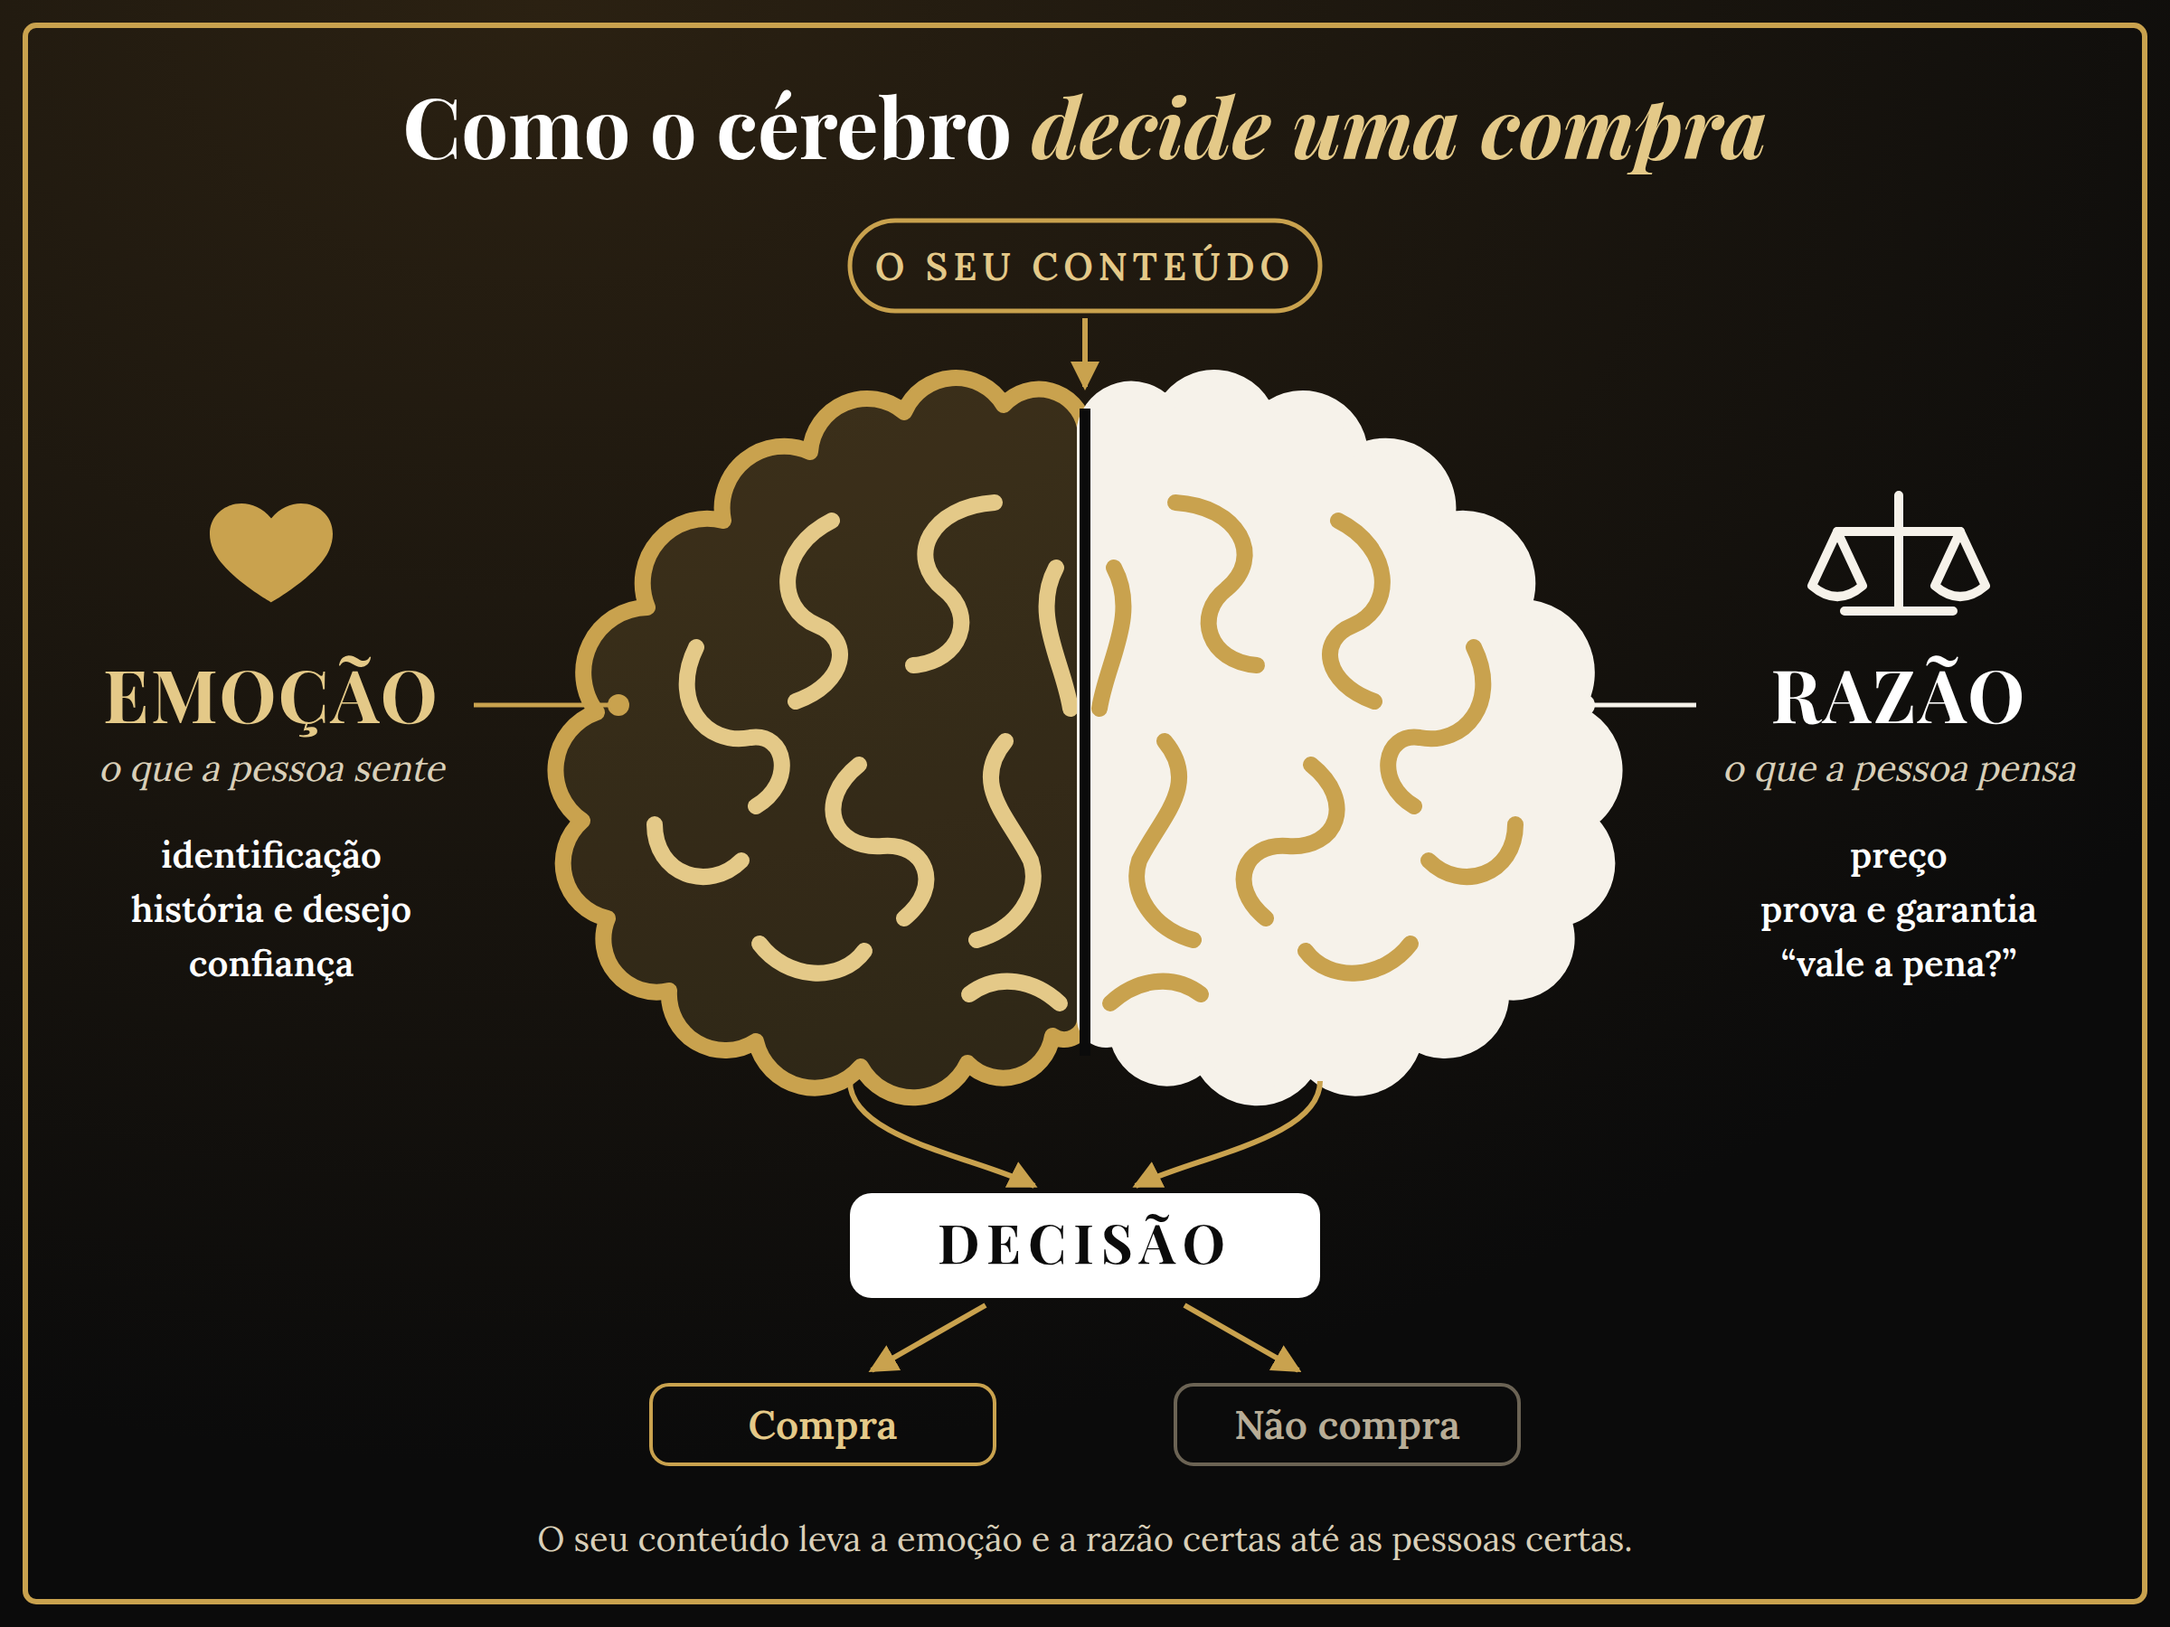
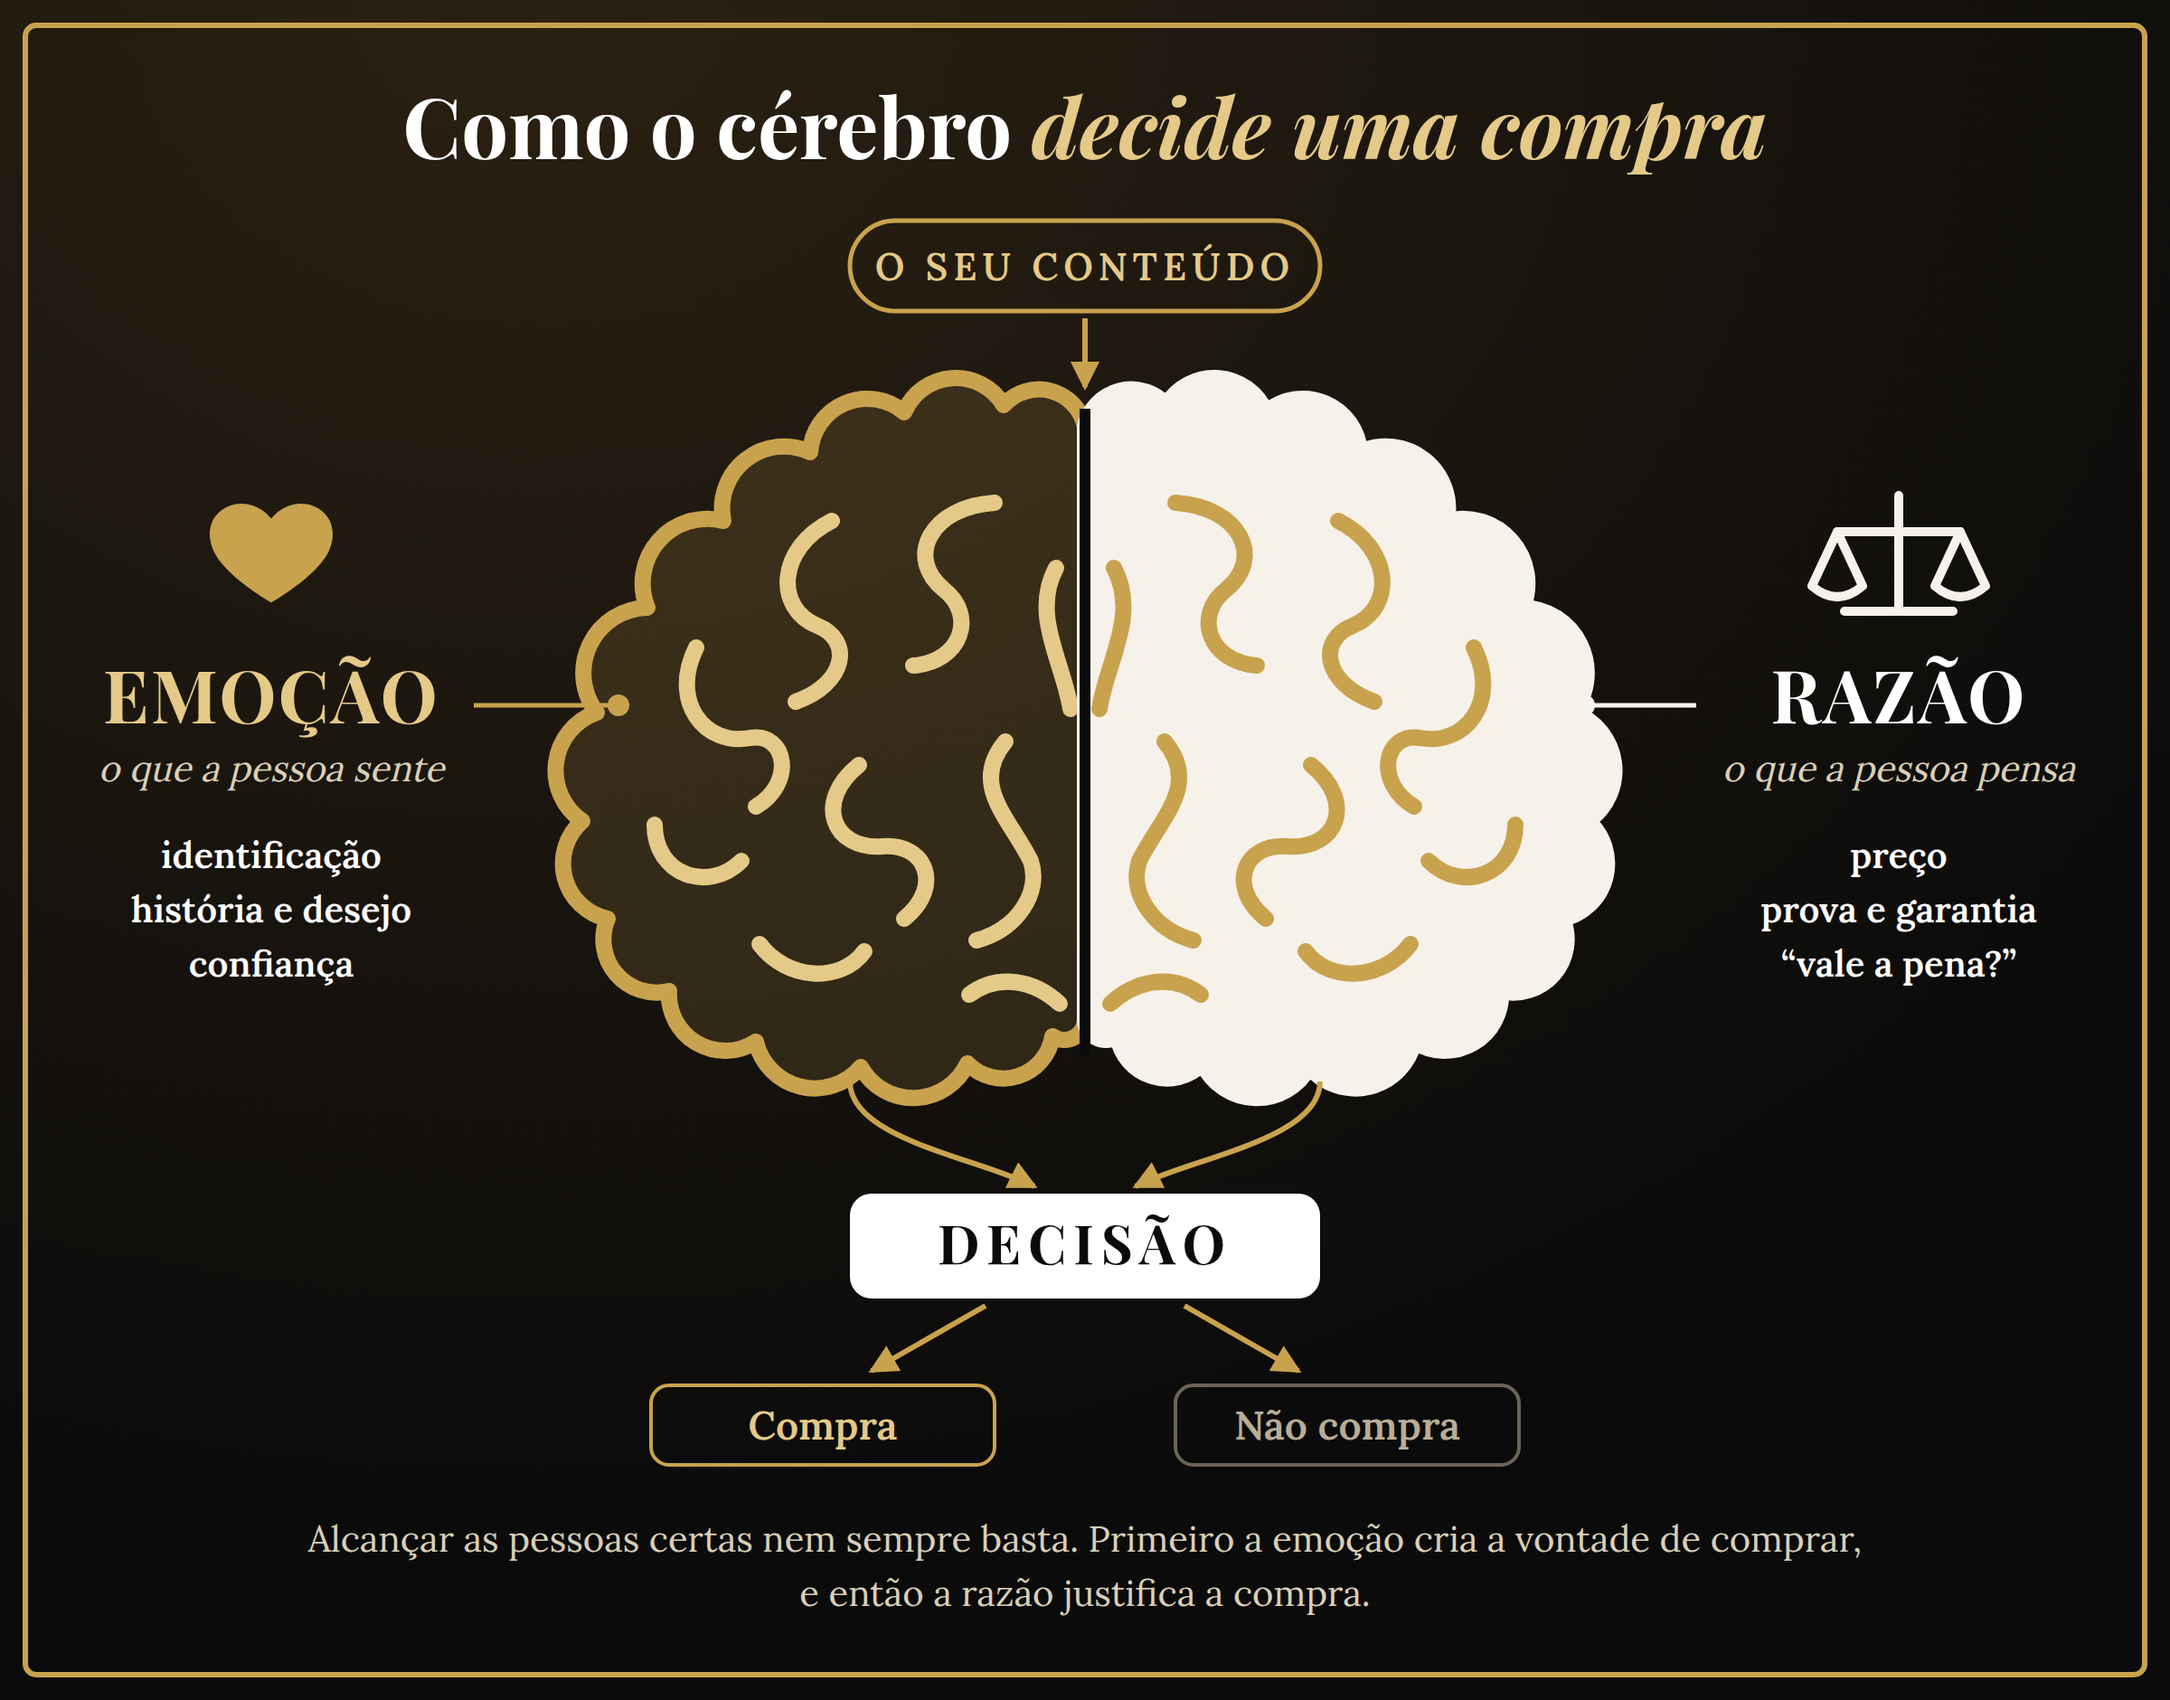
Obrigado dos e-books: seção de neuromarketing com o esquema do cérebro, dor de pagar e fidelização
Claude-Session: https://claude.ai/code/session_01DxpPKgzfVt8WYQSkZW1Msu

diff --git a/obrigado-ebook/index.html b/obrigado-ebook/index.html
@@ -73,6 +73,11 @@ fbq("init","2122997488598240");fbq("track","PageView");
 .cb-leg{font-size:15.5px;line-height:1.45;margin:14px auto 0;max-width:520px;color:#e6dcc6}
 @media(max-width:700px){.of-mods{grid-template-columns:1fr 1fr}.of-prova{grid-template-columns:1fr}.of-cols{grid-template-columns:1fr}.of-passos{grid-template-columns:1fr 1fr}.of-comp .g{font-size:32px}}
 @media(max-width:380px){.of-mods{grid-template-columns:1fr}}
+.of-neuro{max-width:760px;margin:30px auto 8px;text-align:left}
+.of-neuro img{display:block;width:100%;height:auto;border-radius:12px;margin:0 auto 22px}
+.of-neuro p{font-size:17.5px;line-height:1.6;margin:0 0 14px}
+.of-neuro h3{font-family:"Playfair Display",serif;font-size:26px;margin:26px 0 10px;color:var(--ouro2)}
+.of-neuro .dest{border-left:4px solid var(--ouro);padding:10px 16px;background:rgba(201,162,78,.08);border-radius:0 10px 10px 0}
 .of-nao{display:block;margin:20px auto 0;font-size:16px;color:#c9bda4;text-decoration:underline;background:none;border:0;cursor:pointer;font-family:inherit}
 </style>
 </head><body class="escuro">
@@ -164,6 +169,12 @@ var OFS={
  c:{up:{ev:'recria-ads',kick:'Um convite',h2:'Transforme o seu conteúdo em <em>máquinas de venda</em>',
    ps:['Aprenda a criar conteúdos que te farão vender todos os dias, com leveza, sem parecer que está vendendo e sem parecer aquele vendedor chato.',
        'Você terá acesso à metodologia que eu lapidei em mais de 10 anos de prática e que, hoje, só eu e os meus clientes usamos. Ela se apoia em neurociência, jornada do consumidor, storytelling e muito mais. Primeiro você entende como o cérebro humano decide. Depois, aprende a usar isso a seu favor nas vendas do seu negócio: é neuromarketing e dados juntos, e o seu conteúdo é o veículo que leva tudo isso às pessoas certas.'],
+   neuro:{img:'../assets/esquema-cerebro-decisao.png',alt:'Esquema do cérebro: emoção e razão levam à decisão de compra',kick:'Neuromarketing na prática',h2:'Por que o seu conteúdo precisa <em>começar pela emoção</em>',
+     ps:['Alcançar as pessoas certas nem sempre é suficiente para vender. O que faz a diferença é um conteúdo bem envelopado: primeiro ele aciona a <b>emoção</b>, que dá à pessoa a vontade de comprar de você. Depois, a <b>razão</b> entra para justificar a compra. Aí, sim: compra feita.',
+         'E o trabalho não termina na primeira venda. Quando você sabe reter essa pessoa, você a fideliza e <b>vende várias vezes para a mesma pessoa</b>.'],
+     h3:'A dor de pagar',
+     ps2:['Pagar também tem um peso no cérebro. Estudos de neuroimagem mostram que, quando o preço parece alto demais, uma região ligada ao desconforto (a ínsula) tende a se ativar. Ou seja: para o cérebro, pagar pode parecer uma perda.','Por isso a pessoa precisa sentir que está levando <b>muito mais valor</b> do que o dinheiro que está entregando. Esse é o ponto que eu ensino a trabalhar no seu conteúdo, nos seus anúncios e na sua oferta, sem forçar a venda.'],
+     dest:'Sou engenheira, com mestrado em biologia celular e molecular, e trago esse olhar de dados e ciência para o marketing.'},
    comp:{k:'Único compromisso que te peço',g:'<em>10 minutos</em> por dia!',t:'Você só precisa de 10 minutos por dia e, em cerca de um mês, terá tudo aplicado no seu negócio.'},
    video:{id:'SAZ0Gd8BcUk',capa:'../recria-ads/assets/vsl-capa.jpg'},
    bul:['Acesso à <b>metodologia da Agência Recria</b>','<b>8 módulos</b>, com uma aula por dia de no máximo 10 minutos','Materiais práticos em PDF e atividades em cada aula','Suporte nos comentários e grupo do WhatsApp do curso','<b>1 ano de acesso</b>'],
@@ -208,6 +219,7 @@ function mostra(etapa){
  o.ps.forEach(function(t){h+='<p style="'+W+'">'+t.replace('{nome}',nome)+'</p>';});
  if(o.video)h+='<div class="of-video" id="of-video" style="margin-top:22px"><img src="'+o.video.capa+'" alt="Assistir ao vídeo sobre o Recria Ads"><button type="button" class="of-play">▶ Assistir ao vídeo</button></div>';
  if(o.bul)h+='<div class="of-sub" style="margin-top:10px">O que você <em>vai receber</em></div><ul class="lista" style="max-width:640px;margin:8px auto 22px;text-align:left">'+o.bul.map(function(b){return '<li>'+b+'</li>';}).join('')+'</ul>';
+ if(o.neuro){var n=o.neuro;h+='<div class="of-neuro"><div style="text-align:center"><div class="kick">'+n.kick+'</div><h2>'+n.h2+'</h2></div><img src="'+n.img+'" alt="'+n.alt+'">'+n.ps.map(function(t){return '<p>'+t+'</p>';}).join('')+'<h3>'+n.h3+'</h3>'+n.ps2.map(function(t){return '<p>'+t+'</p>';}).join('')+'<p class="dest">'+n.dest+'</p></div>';}
  if(o.comp)h+='<div class="of-comp"><div class="k">'+o.comp.k+'</div><div class="g">'+o.comp.g+'</div><p style="margin:0">'+o.comp.t+'</p></div>';
  if(o.passos)h+='<div class="of-sub" style="margin-top:8px">'+o.passosTit+'</div><ol class="of-passos">'+o.passos.map(function(t,k){return '<li><b>'+(k+1)+'</b>'+t+'</li>';}).join('')+'</ol>';
  if(o.para){h+='<div class="of-sub">'+o.colsTit+'</div><div class="of-cols"><div><h3>Para você que:</h3><ul>'+o.para.map(function(t){return '<li>'+t+'</li>';}).join('')+'</ul></div><div><h3>'+o.acessoTit+'</h3><ul>'+o.acesso.map(function(t){return '<li>'+t+'</li>';}).join('')+'</ul></div></div>';}
